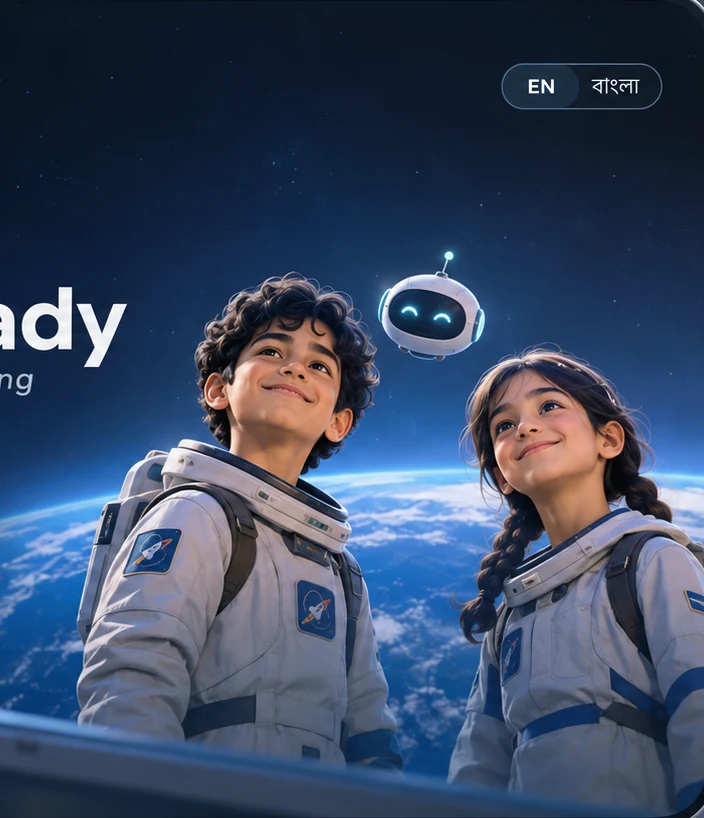
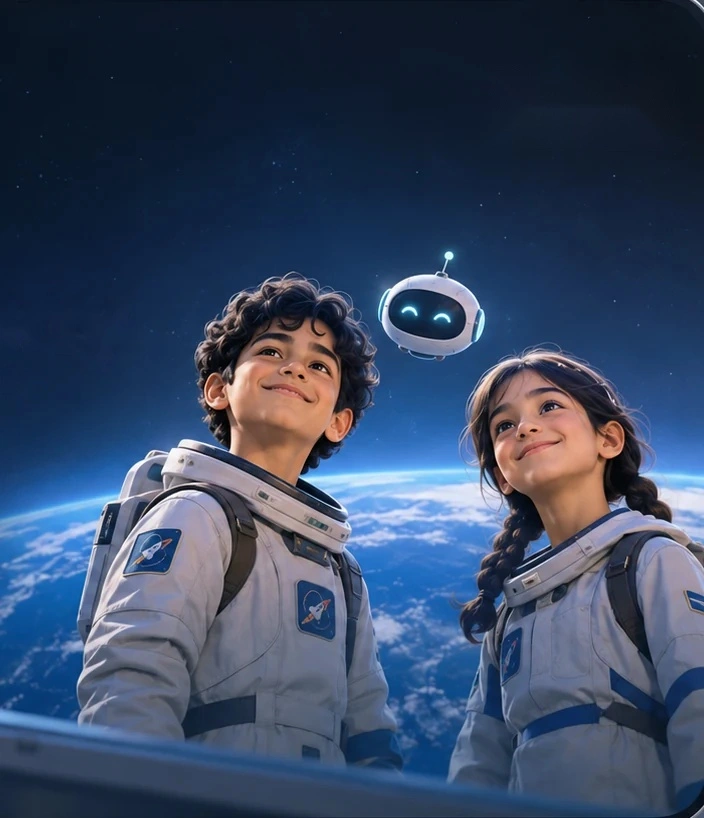
welcome screen 2

Changed region(s): [[0.0, 0.3362, 0.1875, 0.4584], [0.6875, 0.0611, 0.9062, 0.1222], [0.0, 0.4584, 0.0625, 0.489]]

diff --git a/src/screens/Welcome.tsx b/src/screens/Welcome.tsx
@@ -75,43 +75,35 @@ export function Welcome({ onStart }: WelcomeProps) {
 
   return (
     <div className="relative min-h-screen w-full overflow-hidden bg-[#070b1e] text-[#f4f7ff] select-none flex flex-col justify-between">
-      {/* Background Deep Space Ambience */}
-      <div className="absolute inset-0 bg-radial from-[#121c45] via-[#090d24] to-[#040612] pointer-events-none" />
+      {/* Background Deep Space Base */}
+      <div className="absolute inset-0 bg-[#070b1e] pointer-events-none" />
 
       {/* Layer 1: Realistic Astronaut Kids (Interface 1) */}
       <div
-        className="absolute inset-y-0 right-0 w-full lg:w-[65%] pointer-events-none transition-opacity duration-300 ease-out flex items-center justify-end"
+        className="absolute inset-0 w-full h-full pointer-events-none transition-opacity duration-500 ease-out overflow-hidden"
         style={{ opacity: 1 - crossfade }}
       >
-        <div className="relative h-full w-full max-w-[850px] flex items-center justify-end overflow-hidden">
-          <img
-            src="/art/welcome-1.webp"
-            alt="Real-world Junior Astronauts looking at space"
-            className="h-full w-full object-cover object-right-top md:object-center"
-          />
-          {/* Subtle edge fades to integrate cleanly into backdrop */}
-          <div className="absolute inset-y-0 left-0 w-32 bg-gradient-to-r from-[#070b1e] to-transparent" />
-          <div className="absolute inset-x-0 top-0 h-24 bg-gradient-to-b from-[#070b1e] to-transparent" />
-          <div className="absolute inset-x-0 bottom-0 h-24 bg-gradient-to-t from-[#070b1e] to-transparent" />
-        </div>
+        <img
+          src="/art/welcome-1.webp"
+          alt="Real-world Junior Astronauts looking at space"
+          className="h-full w-full object-cover object-[center_20%] md:object-[72%_center]"
+        />
+        {/* Seamless backdrop gradients: smooth bottom fade on mobile, soft left fade on desktop */}
+        <div className="absolute inset-0 bg-gradient-to-t from-[#070b1e] via-[#070b1e]/85 via-45% to-transparent md:bg-gradient-to-r md:from-[#070b1e] md:via-[#070b1e]/75 md:via-35% md:to-transparent md:to-80%" />
       </div>
 
       {/* Layer 2: 3D Animated Game Crew (Interface 2 - Orbit, Nova & Twinkle) */}
       <div
-        className="absolute inset-y-0 right-0 w-full lg:w-[65%] pointer-events-none transition-opacity duration-300 ease-out flex items-center justify-end"
+        className="absolute inset-0 w-full h-full pointer-events-none transition-opacity duration-500 ease-out overflow-hidden"
         style={{ opacity: crossfade }}
       >
-        <div className="relative h-full w-full max-w-[850px] flex items-center justify-end overflow-hidden">
-          <img
-            src="/art/welcome-2.webp"
-            alt="3D Animated CrewReady Astronauts"
-            className="h-full w-full object-cover object-right-top md:object-center"
-          />
-          {/* Subtle edge fades to integrate cleanly into backdrop */}
-          <div className="absolute inset-y-0 left-0 w-32 bg-gradient-to-r from-[#070b1e] to-transparent" />
-          <div className="absolute inset-x-0 top-0 h-24 bg-gradient-to-b from-[#070b1e] to-transparent" />
-          <div className="absolute inset-x-0 bottom-0 h-24 bg-gradient-to-t from-[#070b1e] to-transparent" />
-        </div>
+        <img
+          src="/art/welcome-2.webp"
+          alt="3D Animated CrewReady Astronauts"
+          className="h-full w-full object-cover object-[center_20%] md:object-[72%_center]"
+        />
+        {/* Seamless backdrop gradients: smooth bottom fade on mobile, soft left fade on desktop */}
+        <div className="absolute inset-0 bg-gradient-to-t from-[#070b1e] via-[#070b1e]/85 via-45% to-transparent md:bg-gradient-to-r md:from-[#070b1e] md:via-[#070b1e]/75 md:via-35% md:to-transparent md:to-80%" />
       </div>
 
       {/* Top Header Bar */}
@@ -157,13 +149,13 @@ export function Welcome({ onStart }: WelcomeProps) {
       </header>
 
       {/* Main Hero Stage */}
-      <main className="relative z-20 flex-1 flex flex-col justify-end md:justify-center px-6 sm:px-12 pb-6 md:pb-0 max-w-xl">
-        <div className="rounded-3xl md:rounded-none bg-[#070b1e]/60 md:bg-transparent backdrop-blur-md md:backdrop-blur-none p-5 md:p-0 border border-white/10 md:border-none shadow-xl md:shadow-none space-y-4 md:space-y-6">
+      <main className="relative z-20 flex-1 flex flex-col justify-end md:justify-center items-center md:items-start px-6 sm:px-12 pb-8 md:pb-0">
+        <div className="w-full max-w-sm md:max-w-xl flex flex-col items-center md:items-start text-center md:text-left space-y-4 md:space-y-6">
           <div className="space-y-1.5 md:space-y-2">
             <h1 className="font-display text-4xl sm:text-5xl md:text-7xl font-extrabold tracking-tight text-white drop-shadow-[0_4px_16px_rgba(0,0,0,0.6)]">
               {t('app.name')}
             </h1>
-            <p className="font-display text-lg sm:text-xl md:text-2xl font-semibold text-cyan-100/90 tracking-wide">
+            <p className="font-display text-base sm:text-lg md:text-2xl font-semibold text-cyan-100/90 tracking-wide drop-shadow-[0_2px_8px_rgba(0,0,0,0.5)]">
               {t('app.subtitle')}
             </p>
           </div>

diff --git a/src/content/strings.bn.ts b/src/content/strings.bn.ts
@@ -1,6 +1,6 @@
 export const stringsBn: Record<string, string> = {
   'app.name': 'CrewReady',
-  'app.tagline': 'আমাদের সীমানা ছাড়িয়ে',
+  'app.tagline': 'BEYOND US',
   'app.subtitle': 'জুনিয়র মহাকাশচারী মিশন ট্রেইনার',
   'welcome.play': 'শুরু করো',
   'welcome.howToPlay': 'খেলার নিয়ম',

diff --git a/docs/BUILD_SEQUENCE.md b/docs/BUILD_SEQUENCE.md
@@ -10,7 +10,7 @@ Goes with `plan.md` v10. The plan says **what** the game is. This file says **ho
 4. Don't move on until the step's **Done when** passes and you've looked at the screenshot yourself.
 5. A fix to the last step is just a sentence in the same chat ("the GO button overlaps Twinkle at 667 wide").
 
-**Before R1:** steps A5–A9 are finished but not committed (branch `game-kit-g1-g2`). Commit them first, so the rework has a clean base to go back to.
+**Start with R0.** A5–A9 are committed (`49aabda`), and so is a first welcome screen built in Antigravity (`36f70fb`). R0 brings that work in line with §3 and §4 before anything new is built.
 
 ---
 
@@ -23,8 +23,12 @@ Goes with `plan.md` v10. The plan says **what** the game is. This file says **ho
 | Shared parts | Scene, Hud, GameButton, Panel, Decision, AlarmBanner, RewardCrate, Dock, Twinkle (crew), LevelChrome, five hands-on steps | `src/components/*`, `src/components/steps/*` |
 | Replay blame, leaderboard, APOD sample | Done (A8, A9) | `src/engine/blame.test.ts`, `src/store/leaderboard.ts`, `src/content/apod.ts` |
 | Crew art | 30 cut-outs. **Nova is now in the pink suit** (re-cut 12 Nov, same file names and sizes) | `public/art/*.webp` |
-| Welcome art | **Placeholders** cropped from the two mock-ups; they still show bits of mock-up text and frame | `public/art/welcome-1.webp`, `welcome-2.webp` |
-| Not built | Landscape stage, welcome, real NASA data, Sources, learning layer, Quick Run, Me, Resources, Training, Bangla, offline, publishing | — |
+| Welcome screen | **Built in Antigravity, needs R0 + R2.** Crossfade, bar → Play, How to Play, EN / বাংলা switch, shown on every load. The bar runs on a fixed 2.4 s timer, not on real loading | `src/screens/Welcome.tsx`, `src/App.tsx` |
+| Strings | `t()` helper with English and Bangla for the welcome screen only | `src/content/i18n.ts`, `strings.en.ts`, `strings.bn.ts` |
+| Antigravity extras | Home: Kp gauge with NOAA G-scale labels. Story: asteroid "radar". LevelChrome: sol and place badge. Decision: shaded planets in the level-3 clock. Dock: frosted glass | see R0 |
+| Welcome art | `welcome-1.webp`, `welcome-2.webp`: **placeholders** cropped from the mock-ups. The `_clean` versions are **not usable**: the cleanup smeared Orbit's face and the EN / বাংলা pill is still baked in | `public/art/welcome-*` |
+| Scratch files | 16 untracked test images (`c1_test.jpg`, `slice_*.jpg`, `w1_left.jpg`…) left in `public/art/`. They would ship with the game | R0 deletes them |
+| Not built | Landscape stage, real NASA data, Sources, learning layer, Quick Run, Me, Resources, Training, Bangla beyond the welcome screen, offline, publishing | — |
 
 Stack: Vite 8, React 19, TypeScript, Tailwind 4, Zustand 5, Vitest, `lucide-react`, Baloo Da 2 + Nunito. `npm run dev` (port 5173, in `.claude/launch.json`) · `npm test` · `npm run build`. If new Tailwind classes don't show in the preview, restart the dev server.
 
@@ -109,7 +113,7 @@ Meter colours are untouched. A meter colour still means that meter and nothing e
 
 | Token | Value | Used for |
 |---|---|---|
-| `space` | `#0B1437` | Backdrop behind every scene |
+| `space` / `space-deep` | `#0B1437` / `#070B1E` | Backdrop behind every scene. A scene may add **one** soft radial light (the Earth's edge, a far nebula) |
 | `panel` | `#14204D` | Panels, cards, HUD pills (solid, never see-through) |
 | `panel-up` | `#1C2B63` | A raised or selected card |
 | `line` | `#3A4A8C` | 2 px border on panels and cards |
@@ -125,7 +129,26 @@ Meter colours are untouched. A meter colour still means that meter and nothing e
 - **Shape.** Radius 1 rem for buttons and cards, 1.5 rem for panels, round for pills. A selected card gets a 3 px `go` border and lifts.
 - **Depth.** Every pressable thing keeps its hard lip (`0 0.35rem 0`, darker shade, no blur) and drops onto it when pressed.
 - **Type.** Baloo Da 2, weight 800, for titles, buttons, numbers and all Bangla. Nunito for English sentences. Nothing a kid needs is under 1 rem. Tabular figures for counters.
-- **Still banned:** blur and see-through panels (slow on cheap phones), glow, neon, emoji, the NASA logo (also on suits in artwork), motion that loops forever, walls of text.
+- **Buttons, three kinds.** Main: solid cyan `go` with its lip, exactly one per screen (Play, GO, Next, Continue). Second: an outlined pill, 2 px `text` border at 30%, dark solid fill, white text (How to Play, Map, Ask Twinkle, Start over). Small: icon-only round buttons.
+- **Still banned:** blur and see-through panels (`backdrop-blur`: slow on the cheap phones we promise to reach), glow and coloured shadows, neon, emoji (use lucide icons), the NASA logo (also on suits in artwork), motion that loops forever (`animate-ping`, `animate-pulse`), walls of text, cream paper cards on the dark stage.
+
+### 4.3a What we keep from the Antigravity notes
+
+`improvement-suggestions.md` (12 Nov) proposed a style for every page. Checked against our rules and `docs/human design standards.md`:
+
+| Suggestion | Decision | Why |
+|---|---|---|
+| Deep navy base, the welcome screen as the reference | **Keep** | It's §4 already |
+| One cyan main button per screen | **Keep** | It's the `go` token |
+| Gradient on the cyan button, cyan glow shadow | **Drop**: solid cyan with a lip | No glow. A lip says "press me"; a glow says nothing |
+| Frosted glass for second buttons, the Dock, How to Play | **Drop**: solid dark panels and outlined pills | Blur stutters on low-end phones; design standards say no glass on ordinary content |
+| Paper cards on the dark stage for decisions | **Drop** | Two surface styles on one screen; dark `panel` cards with a cyan selected border |
+| Loading lines like "Syncing NASA Space Weather…" | **Keep only when true.** Before D1 nothing syncs, so the lines say what really loads ("Waking up the crew…", "Packing the rocket…"). After D1 the space-weather line shows while that call runs | No fake telemetry, same as no fake facts |
+| "Impact Risk: 0.00% · Safe Flybys Verified" on the asteroid card | **Drop** | Not in the data. The plan's line is "None will hit us." |
+| Kp gauge with NOAA G1–G5 names | **Keep** if the Kp → G mapping is added to `docs/06` §4 with NOAA's scale as its source; sentence cut under 15 words; no looping beacon | Real scale, but every fact needs its line in `docs/06` |
+| Look-first arrows scaled by size | **Keep**: one ▼ for 5–10, two for 15–20, three for 25+ | Shows "how much" without numbers |
+| Chain reaction with emoji | **Keep the idea, use icons** | No emoji |
+| A sol and place badge in the level HUD | **Keep** | Teaches "sol" by repetition |
 
 ### 4.4 Motion — every effect has a job
 
@@ -176,11 +199,25 @@ Names in `src/components/` may differ a little; keep the existing ones.
 
 ## 5. The steps
 
-Order: **R1 → R2 → R3 → R4 → F1 → D1 → D2 → S1** reaches the **film line** (everything the 240-second video shows). Then **L1 → L2 → S2 → S3 → S4 → F2 → F3 → F4 → F5**.
+Order: **R0 → R1 → R2 → R3 → R4 → F1 → D1 → D2 → S1** reaches the **film line** (everything the 240-second video shows). Then **L1 → L2 → S2 → S3 → S4 → F2 → F3 → F4 → F5**.
 
 After R1, two people can run in parallel: one on R2 → R3 → R4, one on D1 → D2 → S1. They meet in `src/store/game.ts` and the IntelCard; merge those by hand.
 
 ### Phase R — rework what's built
+
+#### R0 — Bring the Antigravity work in line (about 45 min)
+**Read:** §4.3a; `src/screens/Story.tsx`, `src/screens/Home.tsx`, `src/screens/Welcome.tsx`; search `src/components/Decision.tsx`, `Dock.tsx` and `LevelChrome.tsx` for `animate-`, `blur`, `shadow-[0_0` and `boxShadow`.
+
+**Fix**
+- Story: replace "Impact Risk: 0.00% · Safe Flybys Verified" with the plan's "None will hit us." Remove the looping ping.
+- Home: keep the Kp gauge; cut its sentence under 15 words; no looping beacon. Add the Kp → NOAA G-scale rows to `docs/06` §4 with their source, or drop the G labels.
+- Welcome: loading lines say only what is really loading (§4.3a). Take out `backdrop-blur`, glows and `animate-pulse`; panels become solid `panel`, How to Play a solid dark panel.
+- Decision, Dock, LevelChrome: no loops, no glow. The shaded planets may keep a flat light edge.
+- Delete the untracked scratch images in `public/art/` (everything except the crew poses and `welcome-1.webp` / `welcome-2.webp`). List them in the report.
+
+**Done when** `grep` finds no `backdrop-blur`, `animate-ping` or `animate-pulse` in `src/`; every sentence a player sees is under 15 words and in the plan or `docs/06`; tests and build pass.
+
+> **Prompt — R0.** Do step R0 in `docs/BUILD_SEQUENCE.md`. Read §3, §4.3a and R0, then only its Read line. Remove the invented asteroid line, fake loading lines, blur, glow and looping motion, and delete the scratch images. Change nothing else. Check, report, stop.
 
 #### R1 — The stage and the new tokens (about 2 h)
 **Read:** `src/index.css`, `src/App.tsx`, `src/main.tsx`, `src/components/*` (not `steps/`), `src/screens/Kit.tsx`, `src/store/game.ts`.
@@ -196,20 +233,21 @@ After R1, two people can run in parallel: one on R2 → R3 → R4, one on D1 →
 
 > **Prompt — R1.** Do step R1 in `docs/BUILD_SEQUENCE.md`. Read §3, §4 and R1 first, then only the files on its Read line. Build the landscape `Stage`, swap the tokens, update the shared parts and `#kit`. Don't restyle the screens yet. Check, report, stop.
 
-#### R2 — Welcome and loading (about 1.5 h)
-**Read:** `src/App.tsx`, `src/store/game.ts`, `src/screens/Hook.tsx` (how it starts), `plan.md` §7 row W and §7.2.
+#### R2 — Finish the welcome screen (about 1 h)
+The screen exists (Antigravity, cleaned in R0). Shown on every load, crossfade, bar → Play, How to Play and the switch already work. What's left:
 
-**Build**
-- `src/screens/Welcome.tsx`. It shows on **every page load** (not saved). Layout as the mock-up's wide version: logo top left, **EN / বাংলা** top right, "CrewReady" and "Junior Astronaut Training" on the left, the crew art on the right over the Earth.
-- **The change:** `welcome-1` (real-looking crew) is on screen first. As the game preloads (fonts, crew art, the first scenes, saved data), `welcome-2` (game crew) fades in over it in step with a loading bar that sits where Play will be. At least 1.8 s so it's seen, at most 5 s, then carry on anyway. At 100% the bar becomes the cyan **Play** and pops. Reduced motion: one straight cut.
-- The placeholder art has mock-up text on its left and top. Place it on the right and fade its left 20% and top 15% into the backdrop. Swapping in clean art later must need no code change.
-- **Play:** first time → hook; afterwards → Home. Also ask for full screen and landscape (§4.2).
-- **How to Play:** three picture panels, one line each: "Watch your four meters." · "Tap a choice to look. Tap GO to pick it." · "If a meter hits zero, you try again." Then Play.
-- **Language:** add `src/content/strings.en.ts`, `strings.bn.ts` and a `t(key)` helper; the choice is saved. Put this screen's and the kit's strings through `t()`. Missing Bangla shows English. Leave Bangla empty except the switch label; F2 fills it.
+**Read:** `src/screens/Welcome.tsx`, `src/App.tsx`, `src/content/i18n.ts`, `plan.md` §7 row W.
 
-**Done when** reloading always shows the change then Play; first choice in the hook is reachable within 15 seconds of load; the switch flips this screen's text and survives a reload.
+**Finish**
+- **Tie the bar to real loading.** Today it's a fixed 2.4 s timer. Count real things: fonts ready, each crew image and the first scenes decoded, the save read. At least 1.8 s so the change is seen, at most 5 s, then go on anyway. Reduced motion: one straight cut.
+- **Fit the stage.** Lay it out inside R1's `Stage`: title, Play and How to Play on the left; the crew art on the right two-thirds. Drop the separate upright layout: the turned stage covers it. Fade the placeholder art's left 20% and top 15% into the backdrop so its leftover mock-up text doesn't show. Clean art later must need no code change.
+- **Play** asks for full screen and landscape (§4.2), then goes to the hook the first time and to Home after that (check the `screen === 'hook'` branch in `App.tsx` doesn't skip the hook for a player who quit half-way through it).
+- **How to Play:** three picture panels, one line each: "Watch your four meters." · "Tap a choice to look. Tap GO to pick it." · "If a meter hits zero, you try again."
+- **Strings:** the kit's strings go through `t()` too. Bangla lines Antigravity wrote stay, but mark them "needs a check" for F2.
 
-> **Prompt — R2.** Do step R2 in `docs/BUILD_SEQUENCE.md`. Read §3, §4 and R2, then only its Read line. Build the welcome screen with the picture change tied to real preloading, Play, How to Play and the language switch with `t()`. Write no Bangla yourself. Check, report, stop.
+**Done when** reloading always shows the change then Play; throttled to "Slow 4G" the bar really waits; the hook's first choice is reachable within 15 seconds of load; the switch survives a reload.
+
+> **Prompt — R2.** Do step R2 in `docs/BUILD_SEQUENCE.md`. Read §3, §4 and R2, then only its Read line. Tie the welcome bar to real loading, fit the screen into the stage, and finish Play, How to Play and strings. Write no new Bangla. Check, report, stop.
 
 #### R3 — Level screens in landscape, with Look first (about 3 h)
 **Read:** `src/screens/LevelOpening.tsx`, `src/screens/Play.tsx`, `src/components/Decision.tsx`, `src/components/LevelChrome.tsx`, `src/components/Hud.tsx`, `src/components/steps/*`, `src/content/icons.ts`. Search `src/engine/engine.ts` for how a choice's changes are worked out; don't read it all.
@@ -217,7 +255,7 @@ After R1, two people can run in parallel: one on R2 → R3 → R4, one on D1 →
 **Build**
 - **Level opening:** the scene fills the stage. Left: the crew. Right: ribbon ("LEVEL 3 · FIRST BREATH"), one line, the task list as three or four icon chips, the IntelCard, **GO!**. Carry-over costs still play onto the HUD one by one with their reason.
 - **Decision:** Twinkle's bubble on top of the right zone; three `ChoiceCard`s in a row under it.
-  - **Look first:** the first tap selects a card. It lifts, and every meter it will touch wiggles and shows ▲ or ▼ (direction only; no numbers; stars show a star). Tapping another card moves the selection. **GO** confirms. Keyboard: arrows move, Enter confirms.
+  - **Look first:** the first tap selects a card. It lifts, and every meter it will touch wiggles and shows arrows: one ▲/▼ for 5–10, two for 15–20, three for 25 or more (no numbers; stars show a star). Tapping another card moves the selection. **GO** confirms. Keyboard: arrows move, Enter confirms.
   - After GO: stamp, the others slide off, the HUD plays the real changes, the kid reacts, and the result (reason line, chips, **Next**) takes the cards' place.
   - Ask Twinkle stays: it names your lowest meter. It never says "best", "right" or "answer".
 - **Hands-on steps:** crates, stowing, landing order, battery sharing, crew pick each use the full right zone (and the left when they need the room, with the kid shrinking to a corner). Same engine calls. Crew pick: five cards in one row.
@@ -387,7 +425,7 @@ A keyboard-only run, a reduced-motion run, an upright-phone run, an offline run.
 
 | Phase | Hours |
 |---|---|
-| R1–R4 | about 9 |
+| R0–R4 | about 9 |
 | F1 | 1 |
 | D1–D2 | 5 |
 | S1 | 1 |
@@ -408,8 +446,7 @@ Real deadlines are in plan §12.1: the 240-second video on **Fri 13 Nov, 6:30 PM
 
 | Needed | By step | If missing |
 |---|---|---|
-| A yes to commit A5–A9 | Before R1 | The rework has no clean base |
-| **Two clean welcome pictures**, 16:9, at least 1920 × 1080, **no text, buttons or device frame**, crew on the right two-thirds: the real-looking crew and the game crew | R2 | The cropped placeholders ship, edges faded |
+| **Two clean welcome pictures**, 16:9, at least 1920 × 1080, **no text, buttons, language pill or device frame**, crew on the right two-thirds, same framing in both: the real-looking crew and the game crew. Make them fresh from the image tool; cleaning up the mock-ups didn't work (the `_clean` files smear Orbit's face) | R2 | The cropped placeholders ship, edges faded |
 | The name of the AI image tool used for the crew and welcome art | F1, S1 | Credited as "AI-generated by the team" |
 | A hosting choice, and a yes before each push | F1 | The build stays local |
 | Confirmation of each "Confirm" fact in `docs/06` §4 | D2, L2 | The sentence stays out |
@@ -426,6 +463,8 @@ Real deadlines are in plan §12.1: the 240-second video on **Fri 13 Nov, 6:30 PM
 ## 8. Where the ideas come from
 
 - The team's welcome mock-ups ("CrewReady Astronaut Training Interface" 1 and 2): the deep-space look, the cyan Play button, the EN / বাংলা switch.
+- `improvement-suggestions.md` (Antigravity session, 12 Nov): what was kept and dropped is in §4.3a.
+- `docs/human design standards.md`: the quality bar; its §3 and §5 are why glass and glow stay out.
 - `nasa guidelines/space-apps-2026-bangladesh-build-guide.md`, challenge 03: the 15-second demo, the Relevance trap, offline, Bangla, touch targets, the under-18 rule.
 - `nasa guidelines/Space Apps Challenge Participants Guide.md` §02 and §08: the run of show and the three videos.
 - Supercell on the Clash of Clans interface: a few big things, each in a fixed place. https://supercell.com/en/games/clashofclans/blog/news/weve-revamped-the-clash-of-clans-user-interface/

diff --git a/plan.md b/plan.md
@@ -702,7 +702,7 @@ v9 planned 40 free hours. The event's run of show (Participants Guide §02, §08
 
 | When | Build | Video and page | Must be true at the end |
 |---|---|---|---|
-| **Thu 12 Nov, today** | R1–R4: landscape stage, welcome, every built screen in the new look. F1: publish. D1–D2: real storm data. S1: Sources | Lock both scripts. Narrator chosen (18+). Scratch narration | **The film line:** a public link plays welcome → hook → six levels → Replay → Sources, with a real DONKI card |
+| **Thu 12 Nov, today** | R0–R4: landscape stage, welcome, every built screen in the new look. F1: publish. D1–D2: real storm data. S1: Sources | Lock both scripts. Narrator chosen (18+). Scratch narration | **The film line:** a public link plays welcome → hook → six levels → Replay → Sources, with a real DONKI card |
 | **Fri 13, 07:00–11:30** | Bug fixes only. Register every member and role on the NASA site (08:30) | Record all game footage: 1080p, landscape, internet on, LIVE badge showing. Ask the Local Lead the §10 question | Footage in hand |
 | **Fri 13, 11:30–15:00** | L1: the learning layer, if the footage is done | Edit the 240 s: subtitles, citations, names. Rough cut ready for the 15:00 mentor round | A full rough cut |
 | **Fri 13, 15:00–18:30** | Fixes from mentor feedback | Apply feedback at the 18:00 round. Export. **Upload by 18:30:** YouTube link in the form, file in Drive | **240 s submitted** |
